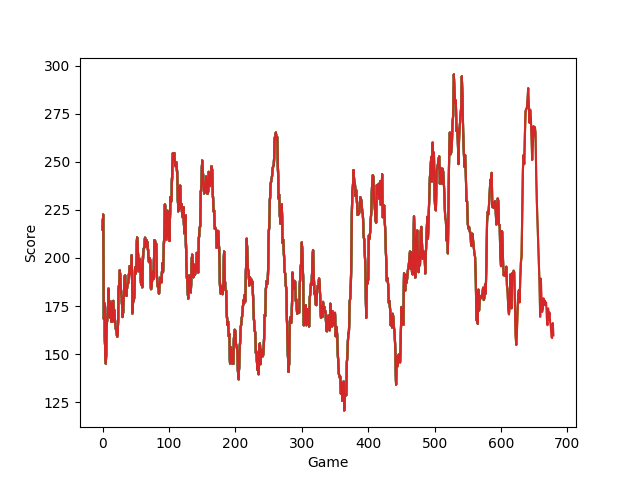
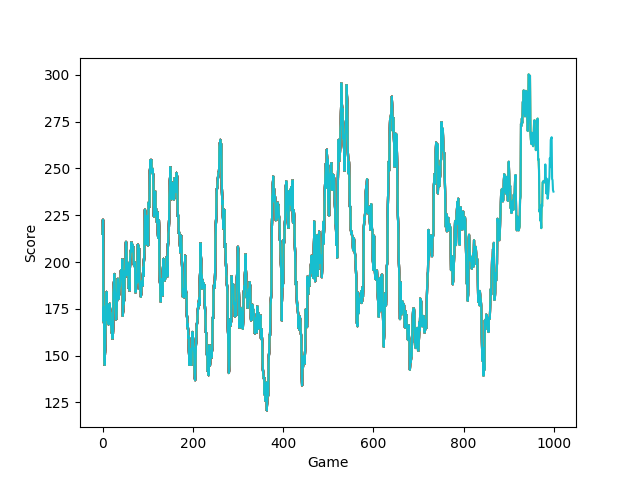
add sarsa and double q learning.

diff --git a/main_double_q_learning.py b/main_double_q_learning.py
@@ -1,0 +1,117 @@
+"""
+Double Q Learning
+- Q learning is mode free bootstrapped off policy learning
+- Double Q learning deals with maximization bias
+    - Some state with many actions, with q(s, a) = 0; Q(s, a) is uncertain and has a positive bias
+    - Max of true values is zero, but the max of Q(s,a) is positive, hence we have a positive bias
+- Due to using same samples to determine the maximizing action and its .values()
+- Solve this by using Q1, Q2 to determine max action and value, and then switching
+
+Algorithm:
+1. Initialize alpha and epsilon
+2. Initialize Q1(s,a) and Q2(s,a)
+3. Loop over episodes
+    1. Initialize S
+    2. For each episode
+        1. Choose a from s using epsilon greedy in Q1 + Q2
+        2. Take action a, observe r, s'
+        3. With 0.5 probability
+            1. Q1 -> Q1 + alpha * [r + gamma*Q2(s', argmaxQ1(s',a)) - Q1]
+            2. Q2 -> Q2 + alpha * [r + gamma*Q1(s', argmaxQ2(s',a)) - Q2]
+        4. s -> s'
+"""
+
+import gym
+import matplotlib.pyplot as plt
+import numpy as np
+
+
+def maxAction(Q1, Q2, state):
+    values = np.array([Q1[state, a] + Q2[state, a] for a in range(2)])
+    action = np.argmax(values)
+    return action
+
+
+# discretize the spaces
+poleThetaSpace = np.linspace(-0.20943951, 0.20943951, 10)
+poleThetaVelSpace = np.linspace(-4, 4, 10)
+cartPosSpace = np.linspace(-2.4, 2.4, 10)
+cartVelSpace = np.linspace(-4, 4, 10)
+
+
+def getState(observation):
+    cartX, cartXdot, cartTheta, cartThetadot = observation
+    cartX = int(np.digitize(cartX, cartPosSpace))
+    cartXdot = int(np.digitize(cartXdot, cartVelSpace))
+    cartTheta = int(np.digitize(cartTheta, poleThetaSpace))
+    cartThetadot = int(np.digitize(cartThetadot, poleThetaVelSpace))
+
+    return (cartX, cartXdot, cartTheta, cartThetadot)
+
+
+def plotRunningAverage(totalrewards):
+    N = len(totalrewards)
+    running_avg = np.empty(N)
+    for t in range(N):
+        running_avg[t] = np.mean(totalrewards[max(0, t-100):(t+1)])
+    plt.plot(running_avg)
+    plt.title("Running Average")
+    plt.show()
+
+
+if __name__ == '__main__':
+
+    env = gym.make('CartPole-v0')
+    # model hyperparameters
+    ALPHA = 0.1
+    GAMMA = 1.0
+    EPS = 1.0
+
+    # construct state space
+    states = []
+    for i in range(len(cartPosSpace)+1):
+        for j in range(len(cartVelSpace)+1):
+            for k in range(len(poleThetaSpace)+1):
+                for l in range(len(poleThetaVelSpace)+1):
+                    states.append((i, j, k, l))
+
+    Q1, Q2 = {}, {}
+    for s in states:
+        for a in range(2):
+            Q1[s, a] = 0
+            Q2[s, a] = 0
+
+    numGames = 100000
+    totalRewards = np.zeros(numGames)
+    for i in range(numGames):
+        if i % 5000 == 0:
+            print('starting game ', i)
+        done = False
+        epRewards = 0
+        observation = env.reset()
+        while not done:
+            s = getState(observation)
+            rand = np.random.random()
+            a = maxAction(Q1, Q2, s) if rand < (
+                1-EPS) else env.action_space.sample()
+            observation_, reward, done, info = env.step(a)
+            epRewards += reward
+            s_ = getState(observation_)
+            rand = np.random.random()
+
+            if rand <= 0.5:
+                a_ = maxAction(Q1, Q1, s_)
+                Q1[s, a] = Q1[s, a] + ALPHA * \
+                    (reward + GAMMA*Q2[s_, a_] - Q1[s, a])
+            elif rand > 0.5:
+                a_ = maxAction(Q2, Q2, s_)
+                Q2[s, a] = Q2[s, a] + ALPHA * \
+                    (reward + GAMMA * Q1[s_, a_] - Q2[s, a])
+
+            observation = observation_
+        EPS -= 2/(numGames) if EPS > 0 else 0
+        totalRewards[i] = epRewards
+
+    #plt.plot(totalRewards, 'b--')
+    # plt.show()
+    plotRunningAverage(totalRewards)

diff --git a/main_sarsa.py b/main_sarsa.py
@@ -1,0 +1,99 @@
+"""
+SARSA:
+- Type of temporal difference learning, don't wait for end of episode to learn
+- Model free
+- On policy control algorithm
+- Bootstrapping: use estimates to make more estimates
+
+Algorithm:
+1. Initialize alpha(learning rate)
+2. Initialize Q(s,a)
+3. Initialize S
+4. Choose A(S) using epsilon greedy from Q
+Loop:
+    1. Take action a, get reward r and next state s'
+    2. Choose a' in s' using epsilon greedy from Q
+    3. Q(s,a) -> Q(s, a) + alpha[r + gamma*Q(s',a') - Q(s,a)]
+    4. s -> s', a -> a'
+"""
+
+import gym
+import matplotlib.pyplot as plt
+import numpy as np
+
+
+def maxAction(Q, state):
+    values = np.array([Q[state, a] for a in range(2)])
+    action = np.argmax(values)
+    return action
+
+
+# discretize the spaces
+poleThetaSpace = np.linspace(-0.20943951, 0.20943951, 10)
+poleThetaVelSpace = np.linspace(-4, 4, 10)
+cartPosSpace = np.linspace(-2.4, 2.4, 10)
+cartVelSpace = np.linspace(-4, 4, 10)
+
+
+def getState(observation):
+    cartX, cartXdot, cartTheta, cartThetadot = observation
+    cartX = int(np.digitize(cartX, cartPosSpace))
+    cartXdot = int(np.digitize(cartXdot, cartVelSpace))
+    cartTheta = int(np.digitize(cartTheta, poleThetaSpace))
+    cartThetadot = int(np.digitize(cartThetadot, poleThetaVelSpace))
+
+    return (cartX, cartXdot, cartTheta, cartThetadot)
+
+
+if __name__ == '__main__':
+    env = gym.make('CartPole-v0')
+
+    # model hyperparameters
+    ALPHA = 0.1
+    GAMMA = 0.9
+    EPS = 1.0
+
+    # construct state space
+    states = []
+    for i in range(len(cartPosSpace)+1):
+        for j in range(len(cartVelSpace)+1):
+            for k in range(len(poleThetaSpace)+1):
+                for l in range(len(poleThetaVelSpace)+1):
+                    states.append((i, j, k, l))
+
+    Q = {}
+    for s in states:
+        for a in range(2):
+            Q[s, a] = 0
+
+    numGames = 50000
+    totalRewards = np.zeros(numGames)
+    for i in range(numGames):
+        if i % 5000 == 0:
+            print('starting game', i)
+
+        # cart x position, cart velocity, pole theta, pole velocity
+        observation = env.reset()
+        s = getState(observation)
+        rand = np.random.random()
+        a = maxAction(Q, s) if rand < (1 - EPS) else env.action_space.sample()
+
+        done = False
+        epRewards = 0
+
+        while not done:
+
+            observation_, reward, done, info = env.step(a)
+            s_ = getState(observation_)
+            rand = np.random.random()
+            a_ = maxAction(Q, s_) if rand < (
+                1-EPS) else env.action_space.sample()
+            epRewards += reward
+            Q[s, a] = Q[s, a] + ALPHA*(reward + GAMMA*Q[s_, a_] - Q[s, a])
+            s, a = s_, a_
+
+        EPS -= 2/(numGames) if EPS > 0 else 0
+        totalRewards[i] = epRewards
+
+    plt.plot(totalRewards, 'b--')
+    plt.show()
